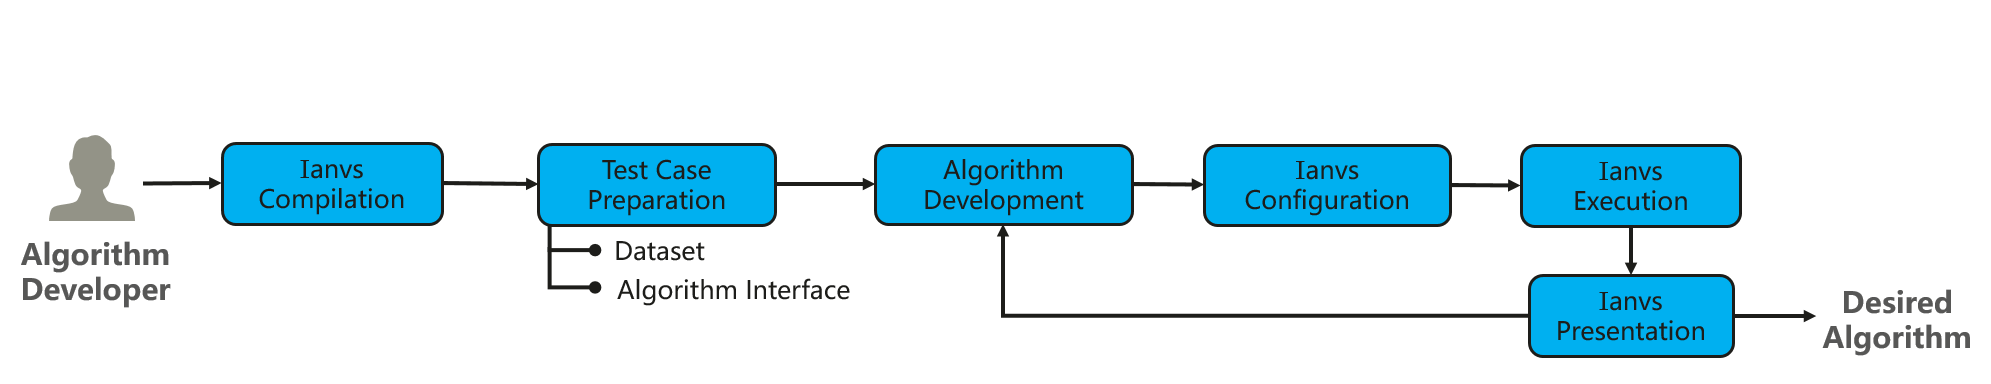
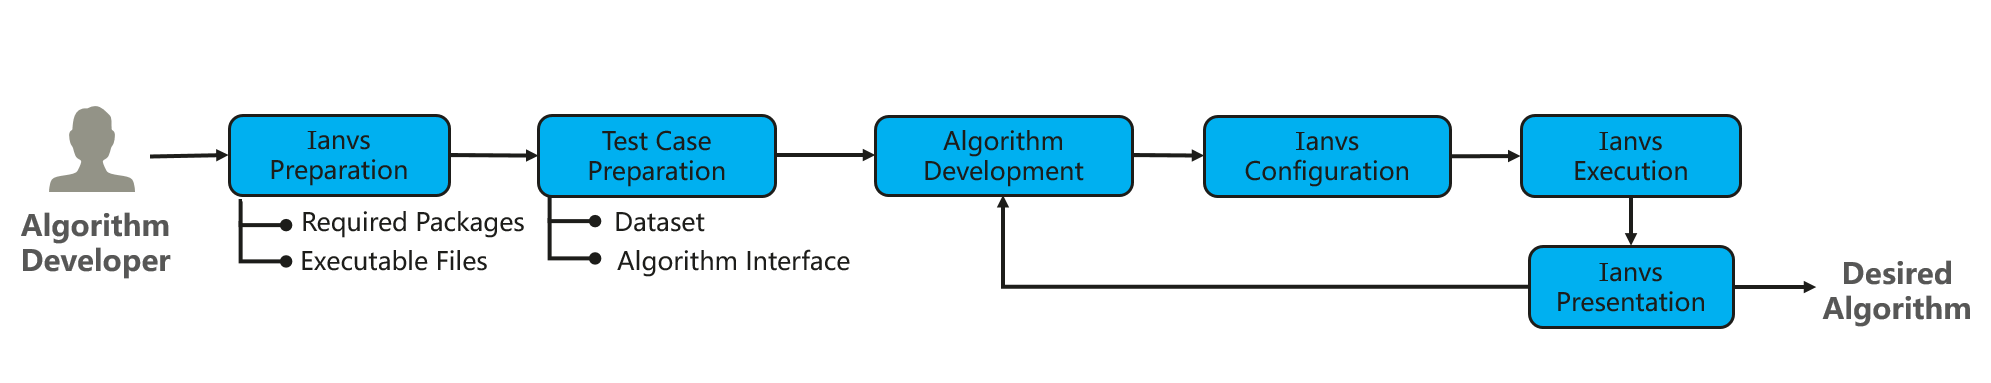
Add events not in scope and roadmap as suggested on KubeEdge Meeting

diff --git a/sig-ai/Distributed Synergy AI Benchmarking.md b/sig-ai/Distributed Synergy AI Benchmarking.md
@@ -1,7 +1,7 @@
 # Distributed Synergy AI Benchmarking
-Edge computing emerges as a promising technical framework to overcome the challenges in cloud computing. In this machine-learning era, the AI application becomes one of the most critical type of applications on the edge. Driven by the increasing computation power of edge devices and the increasing amount of data generated from the edge, edge-cloud synergy AI and distributed synergy AI techniques have received more and more attention for the sake of device, edge, and cloud intelligence enhancement. 
+Edge computing emerges as a promising technical framework to overcome the challenges in cloud computing. In this machine-learning era, the AI application becomes one of the most critical types of applications on the edge. Driven by the increasing computation power of edge devices and the increasing amount of data generated from the edge, edge-cloud synergy AI and distributed synergy AI techniques have received more and more attention for the sake of device, edge, and cloud intelligence enhancement. 
 
-Nevertheless, distributed synergy AI is at its initial stage. For the time being, the comprehensive evaluation standard is not yet available for scenarios with various AI paradigms on all three layers of edge computing systems. According to the landing challenge survey 2022, developers suffer from the lack of support of related datasets and algorithms; while end users are lost in the sea of mismatched solutions. That limits the wide application of related techniques and hinders a prosperous ecosystem of distributed synergy AI. A comprehensive end-to-end distributed synergy AI benchmark suite is thus needed to measure and optimize the systems and applications. 
+Nevertheless, distributed synergy AI is at its initial stage. For the time being, the comprehensive evaluation standard is not yet available for scenarios with various AI paradigms on all three layers of edge computing systems. According to the landing challenge survey 2022, developers suffer from the lack of support on related datasets and algorithms; while end users are lost in the sea of mismatched solutions. That limits the wide application of related techniques and hinders a prosperous ecosystem of distributed synergy AI. A comprehensive end-to-end distributed synergy AI benchmark suite is thus needed to measure and optimize the systems and applications. 
 
 This proposal provides a basic benchmark suite for distributed synergy AI, so that AI developers and end users can benefit from efficient development support and best practice discovery.
 
@@ -11,50 +11,62 @@ For developers or end users of distributed synergy AI solutions, the goals of th
     - test cases including dataset and corresponding tools
     - benchmarking tools including simulation and hyper-parameter searching
 - Revealing best practices for developers and end users
-    - presentaion tools including leaderboards and test reports
+    - presentation tools including leaderboards and test reports
 
 
 ## Proposal
-The distributed synergy AI benchmarking Ianvs aims to test the performance of distributed synergy AI solutions following recognized standards, in order to facilitate more efficient and effective development. Its scope includes:
-- Provide end-to-end benchmark toolkits across devices, edge nodes and cloud nodes based on typical distributed-synergy AI paradigms and applications. 
-    - Tools for Test Environment Management. For example, it would be necessary to support the CRUD (Create, Read, Update and Delete) actions in test environments. Elements of such test environments include algorithm-wise and system-wise configuration 
-    - Tools for Test-case Preparation. Typical examples include paradigm templates, simulation tools, and hyper-parameter-based preparation tools.
-    - Tools for Benchmark Presentation, e.g., leaderboard and test report generation.  
-- Cooperation with other communities, e.g., in KubeEdge SIG AI, to establish comprehensive benchmarks and developed related applications, which can include but are not limited to 
+The distributed synergy AI benchmarking ianvs aims to test the performance of distributed synergy AI solutions following recognized standards, in order to facilitate more efficient and effective development. 
+
+The scope of ianvs includes
+- Providing end-to-end benchmark toolkits across devices, edge nodes and cloud nodes based on typical distributed-synergy AI paradigms and applications. 
+    - Tools to manage test environment. For example, it would be necessary to support the CRUD (Create, Read, Update and Delete) actions in test environments. Elements of such test environments include algorithm-wise and system-wise configuration.  
+    - Tools to control test cases. Typical examples include paradigm templates, simulation tools, and hyper-parameter-based assistant tools.
+    - Tools to manage benchmark presentation, e.g., leaderboard and test report generation. 
+- Cooperation with other organizations or communities, e.g., in KubeEdge SIG AI, to establish comprehensive benchmarks and developed related applications, which can include but are not limited to 
     - Dataset collection, re-organization, and publication
     - Formalized specifications, e.g., standards 
     - Holding competitions or coding events, e.g., open source promotion plan
     - Maintaining solution leaderboards or certifications for commercial usage 
 
 Targeting users
-- Developers: build and publish edge-cloud collaborative AI solutions efficiently from scratch
+- Developers: Build and publish edge-cloud collaborative AI solutions efficiently from scratch
 - End users: view and compare distributed synergy AI capabilities of solutions
 
+The scope of ianvs does NOT include to
+- Re-invent existing edge platform, i.e., kubeedge, etc.
+- Re-invent existing AI framework, i.e., tensorflow, pytorch, mindspore, etc. 
+- Re-invent existing distributed synergy AI framework, i.e., kubeedge-sedna, etc.
+- Re-invent existing UI or GUI toolkits, i.e., prometheus, grafana, matplotlib, etc.
 
 ## Design Details
 ### User flow
-The user flow for the algorithm developer is as follows. 
-1. Ianvs Compilation: Prepare executable file for Ianvs. 
-    - An algorithm developer can compile Ianvs in his/her own machine to adapt to the local environment, e.g., with TPU. 
-    - Or directly download the pre-compiled executable file if the local environment is following default settings.
+The user flow for an algorithm developer is as follows. 
+1. ianvs Preparation: 
+    1. Install required packages specified in requirement files
+    1. Prepare executable files for ianvs. An algorithm developer can
+        - either interpret/ compile the code of ianvs in his/her machine to adapt to the local environment, e.g., with TPU. 
+        - or directly download the pre-compiled executable files/ wheels if the local environment is following default settings.
 1. Test Case Preparation 
-    - Dataset. Datasets can be large. To avoid over-size projects, the Ianvs executable file and code base do not include origin datasets and developers can download datasets from source links (e.g., from Kaggle) given by Ianvs. 
-    - Algorithm Interface. The tested algorithm should follow the Ianvs interface to ensure functional benchmarking.
+    - Prepare the dataset according to the targeted scenario 
+        - Datasets can be large. To avoid over-size projects, the ianvs executable file and code base do not include origin datasets and developers can download datasets from source links (e.g., from Kaggle) given by ianvs. 
+    - Leverage the ianvs algorithm interface for the targeted algorithm. 
+        - The tested algorithm should follow the ianvs interface to ensure functional benchmarking.
 1. Algorithm Development: Develop the targeted algorithm
-1. Ianvs Configuration: Fill configuration files for Ianvs
-1. Ianvs Execution: Run the executable file of Ianvs for benchmarking
-1. Ianvs Presentation: View the benchmarking result of the targeted algorithms
+1. ianvs Configuration: Fill configuration files for ianvs
+1. ianvs Execution: Run the executable file of ianvs for benchmarking
+1. ianvs Presentation: View the benchmarking result of the targeted algorithms
 1. Repeat Step 3 - 6 until the targeted algorithm is satisfactory
 
 ![](images/user_flow.png)
 
 ### Architecture and Modules
-The Ianvs is designed to run within a single node. The architectures and related concepts are shown in the below figure. Critical components include
-- Test Environment Management: the CRUD of test environments serving for global usage
+The architectures and related concepts are shown in the below figure. The ianvs is designed to run within a single node. Critical components include
+- Test Environment Manager: the CRUD of test environments serving for global usage
 - Test Case Controller: control the runtime behavior of test cases like instance generation and vanish 
-- Test Case Preparation: test case generation based on certain rules or constraints, e.g., the range of parameters 
-- Story Management: the output management and presentation of the test case, e.g., leaderboards
-- Simulation Controller: control the simulation process of edge-cloud synergy AI, including the instance generation and vanish of simulation containers
+    - Generation Assistant: assist users to generate test cases based on certain rules or constraints, e.g., the range of parameters 
+    - Simulation Controller: control the simulation process of edge-cloud synergy AI, including the instance generation and vanishment of simulation containers
+- Story Manager: the output management and presentation of the test case, e.g., leaderboards
+
 
 ![](images/ianvs_arch.png)
 
@@ -64,19 +76,28 @@ Quite a few terms exist in ianvs, which include the detailed modules and instanc
 ![](images/ianvs_concept.png)
 
 The concept definition of modules has been shown in the Architecture Section. In the following, we introduce the concepts of instances for easier understanding. 
-- Benchmark: standardized evaluation process recognized by the academic or industry.  
-- Benchmarking Job: the serving instance for an individual benchmarking with Ianvs, which takes charge of the lifetime management of all possible Ianvs components.
-- Test Object: the targeted instance under benchmark testing. A typical example would be a particular algorithm or system. 
-- Test Environment: the configuration of benchmarking, including algorithm-wise and system-wise configuration. But it does not include the test object.  
-- Test Case: the executable instance to evaluate the performance of the test object under a particular test environment. Thus, the test case is usually generated with a particular test environment and outputs testing results if executed. It is the atomic unit of a benchmark. That is, a benchmarking job can include quite a few test cases.
-- Attr. of Test Case: Attributes or descriptors of a test case, e.g., id, name, and time stamp.   
-- Algorithm Paradigm: acknowledged AI process which usually includes quite a few modules that can be implemented with replaceable algorithms, e.g., federated learning which includes modules of local train and global aggregation.  
+- ``Benchmark``: standardized evaluation process recognized by the academic or industry.  
+- ``Benchmarking Job``: the serving instance for an individual benchmarking with ianvs, which takes charge of the lifetime management of all possible ianvs components. 
+    - Besides components, a benchmarking job includes instances of a test environment, one or more test cases, a leaderboard, or a test report. 
+    - Different test environments lead to different benchmarking jobs and leaderboards. A benchmarking job can include multiple test cases. 
+- ``Test Object``: the targeted instance under benchmark testing. A typical example would be a particular algorithm or system. 
+- ``Test Environment (Test Env.)``: setups or configurations for benchmarking, typically excluding the test object.  
+    - It can include algorithm-wise and system-wise configurations.  
+    - It serves as the unique descriptor of a benchmarking job. Different test environments thus lead to different benchmarking jobs.
+- ``Test Case``: the executable instance to evaluate the performance of the test object under a particular test environment. Thus, the test case is usually generated with a particular test environment and outputs testing results if executed. 
+    - It is the atomic unit of a benchmark. That is, a benchmarking job can include quite a few test cases.
+- ``Attribute (Attr.) of Test Case``: Attributes or descriptors of a test case, e.g., id, name, and time stamp.   
+- ``Algorithm Paradigm``: acknowledged AI process which usually includes quite a few modules that can be implemented with replaceable algorithms, e.g., federated learning which includes modules of local train and global aggregation.  
+- ``Algorithm Module``: the component of the algorithm paradigm, e.g., the global aggregation module of the federated learning paradigm.  
+- ``Leaderboard (LDB)/ Test Report (TR)``: the ranking of the test object under a specific test environment. 
+    - The local node holds the local leaderboard for private usage. 
+    - The local leaderboard can be uploaded to a shared space (e.g., GitHub) as the global leaderboard. 
 
 
 ### Details of Modules
 
-The proposal includes Test Environment Management, Test-case Preparation and Benchmark Presentation in the Distributed Synergy AI benchmarking toolkits, where
-1. Test Environment Management supports the CRUD of Test environments, which include
+The proposal includes Test-Environment Management, Test-case Controller and Story Manager in the Distributed Synergy AI benchmarking toolkits, where
+1. Test-Environment Manager supports the CRUD of Test environments, which basically includes
     - Algorithm-wise configuration
         - Public datasets
         - Pre-processing algorithms
@@ -87,14 +108,22 @@ The proposal includes Test Environment Management, Test-case Preparation and Ben
         - System constraints or budgets
             - End-to-end cross-node 
             - Per node
-1. Test-case Preparation which includes
+1. Test-case Controller, which includes but is not limited to the following components 
     - Templates of common distributed-synergy-AI paradigms, which can help the developer to prepare their test case without too much effort. Such paradigms include edge-cloud synergy joint inference, incremental learning, federated learning, and lifelong learning. 
     - Simulation tools. Develop simulated test environments for test cases
-    - Other test-case preparation tools. For instance, prepare test cases based on a given range of hyper-parameters. 
-1. Benchmark Presentation which includes
+    - Other tools to assist test-case generation. For instance, prepare test cases based on a given range of hyper-parameters. 
+1. Story Manager, which includes but is not limited to the following components
     - Leaderboard generation
     - Test report generation
 
 
+### Roadmap
 
-
+Upon the release of ianvs, the roadmap would be as follows
+- AUG 2022: Release Another Use Case and Advanced Algorithm Paradigm - Non-structured lifelong learning paradigm in ianvs
+- SEP 2022: Release Another Use Case, Dataset, and Algorithm Paradigm - Another structured dataset and lifelong learning paradigm in ianvs
+- OCT 2022: Release Advanced Benchmark Presentation - shared space for story manager to present your work in public
+- NOV 2022: Release Advanced Algorithm Paradigm - Re-ID with Multi-edge Synergy Inference in ianvs
+- DEC 2022: Release Simulation Tools
+- JUN 2023: More datasets, algorithms, and test cases with ianvs
+- DEC 2023: Standards, coding events, and competitions with ianvs
